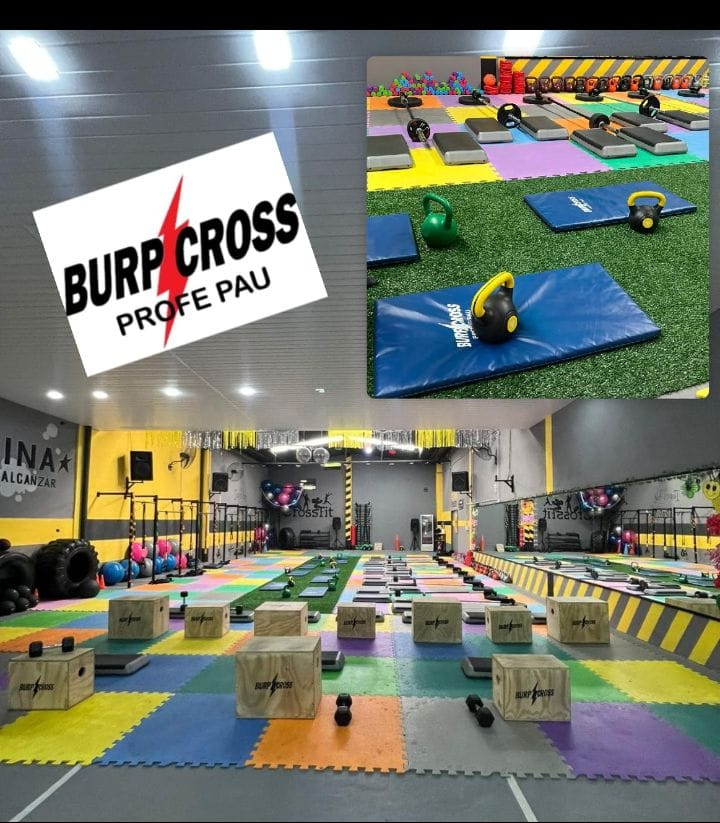
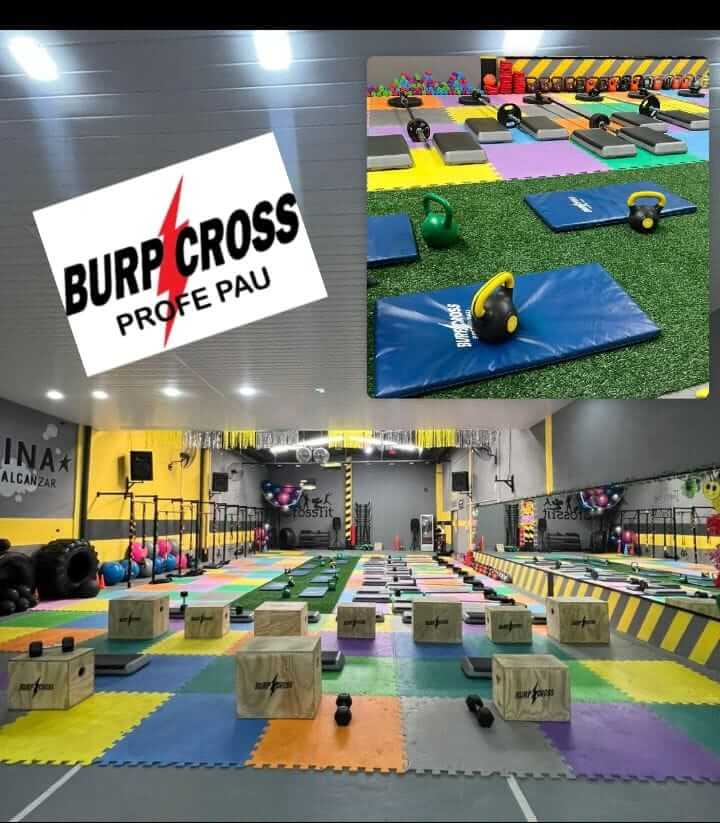
cambio en fotos

diff --git a/index.html b/index.html
@@ -29,13 +29,24 @@
 <style>
     body { background-color: #f8f9fa; }
     .hero-section { position: relative; width: 100%; height: 100vh; overflow: hidden; }
-    .carousel-item img { width: 100%; height: 100vh; object-fit: cover; filter: brightness(0.9); }
-    .coming-soon-overlay {
-      position: absolute; top:0; left:0; width:100%; height:100%;
-      background-color: rgba(0,0,0,0.5);
-      display:flex; flex-direction:column; justify-content:center; align-items:center;
-      text-align:center; color:#fff;
-    }
+    .carousel-item img { 
+  width: 100%; 
+  height: 100vh; 
+  object-fit: cover; 
+  /* filter: brightness(0.9); */ /* ← eliminar */
+}
+
+.coming-soon-overlay {
+  position: absolute;
+  bottom: 40px;   /* la bajás un poco, ajustá el valor */
+  right: 40px;    /* la corrés a la derecha */
+  width: 30%;     /* ajustá el tamaño */
+  background-color: rgba(0,0,0,0.5); /* opcional */
+  padding: 20px;
+  text-align: center;
+  color: #fff;
+  border-radius: 8px;
+}
     .coming-soon-overlay h1 { font-family:'Anton',sans-serif; font-size:3rem; }
     .primavera-section {
       position: relative;
@@ -54,7 +65,7 @@
   animation: fall linear infinite;
   opacity: 0.9;
 }
-
+.falling-flowers, .flower { display: none !important; }
 @keyframes fall {
   0% { top: -10%; transform: rotate(0deg); } /* Empieza arriba */
   100% { top: 110%; transform: rotate(360deg); } /* Cae por completo */
@@ -139,14 +150,16 @@
 </script>
   <!-- Hero -->
 <section class="hero-section">
-    <div id="heroCarousel" class="carousel slide" data-bs-ride="carousel" data-bs-interval="5000">
+    <div id="heroCarousel" class="carousel slide" data-bs-ride="carousel" data-bs-interval="2500">
       <div class="carousel-inner">
-        <div class="carousel-item active"><img src="images/frente.jpg" alt="Fachada del gimnasio BurpCross en Paso del Rey"></div>
-        <div class="carousel-item"><img src="images/local.jpeg" alt="Interior del gimnasio BurpCross con equipamiento de CrossFit"></div>
+        <div class="carousel-item active"><img src="images/hero6.jpeg" alt="Fachada del gimnasio BurpCross en Paso del Rey"></div>
+        <!-- <div class="carousel-item"><img src="images/local.jpeg" alt="Interior del gimnasio BurpCross con equipamiento de CrossFit"></div> -->
+        <div class="carousel-item"><img src="images/rcp.jpeg" alt="Interior del gimnasio BurpCross con equipamiento de CrossFit"></div>
         <div class="carousel-item"><img src="images/hero3.jpeg" alt="Clase de entrenamiento funcional en BurpCross"></div>
-        <div class="carousel-item"><img src="images/hero6.jpeg" alt="Clase de entrenamiento funcional en BurpCross"></div>
+        <!-- <div class="carousel-item"><img src="images/hero6.jpeg" alt="Clase de entrenamiento funcional en BurpCross"></div> -->
         <div class="carousel-item"><img src="images/hero7.jpeg" alt="Clase de entrenamiento funcional en BurpCross"></div>
-        <div class="carousel-item"><img src="images/hero8.jpeg" alt="Clase de entrenamiento funcional en BurpCross"></div>
+        <div class="carousel-item"><img src="images/foto9.jpeg" alt="Clase de entrenamiento funcional en BurpCross"></div>
+        <div class="carousel-item"><img src="images/foto10.jpeg" alt="Gimnasio BurpCross"></div>
       </div>
     </div>
     <div class="coming-soon-overlay">
@@ -161,9 +174,9 @@
     <h2 class="primavera-title">🌸 ¡Feliz Día de la Primavera! 🌼</h2>
     <p class="primavera-text">Que la alegría, la energía y las flores llenen cada entrenamiento 🌺💪</p>
     <div class="row g-4 justify-content-center">
-      <div class="col-md-4"><img src="images/foto1.jpg" class="img-fluid rounded shadow" alt="Primavera 1"></div>
+      <div class="col-md-4"><img src="images/hero8.jpeg" class="img-fluid rounded shadow" alt="Primavera 1"></div>
       <div class="col-md-4"><img src="images/foto3.jpeg" class="img-fluid rounded shadow" alt="Primavera 2"></div>
-      <div class="col-md-4"><img src="images/foto5.jpeg" class="img-fluid rounded shadow" alt="Primavera 3"></div>
+      <div class="col-md-4"><img src="images/foto11.jpeg" class="img-fluid rounded shadow" alt="Primavera 3"></div>
     </div>
     <div class="falling-flowers"></div>
   </section>
